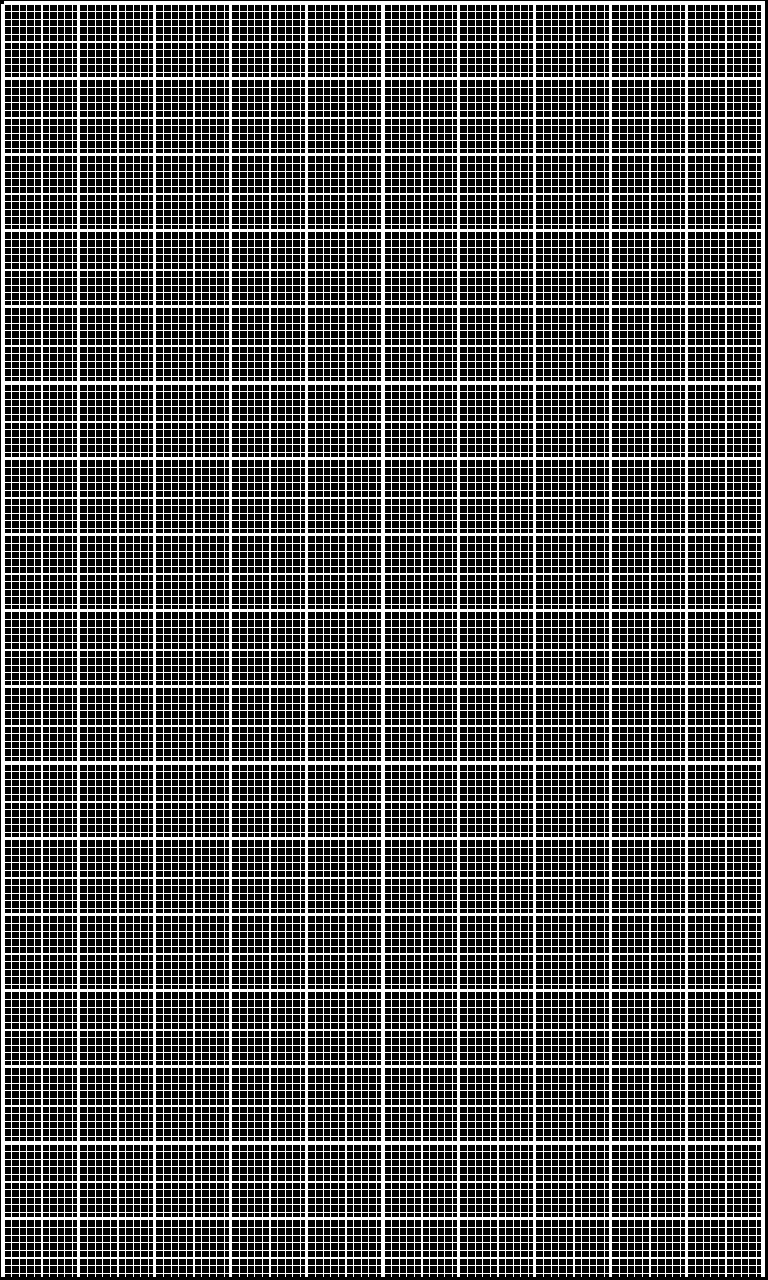
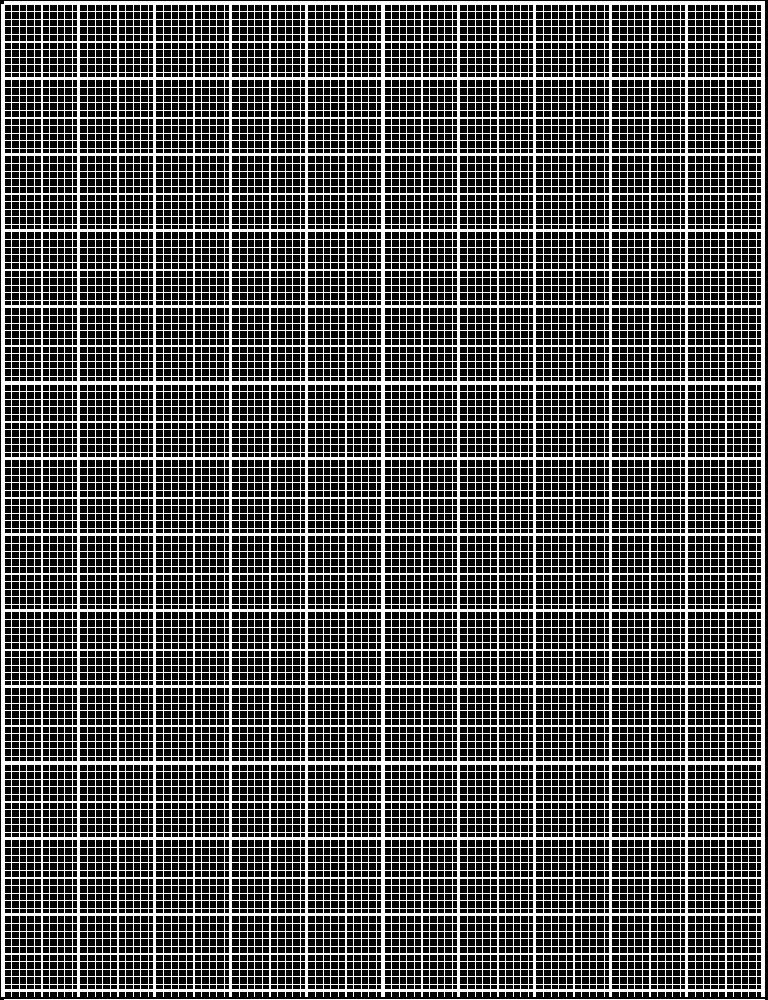
update to use functions

diff --git a/generate_graph.py b/generate_graph.py
@@ -4,8 +4,7 @@ import os
 
 
 def create_graph_paper(width, height, sections, subsections, padding):
-    # Create a white background image
-    
+      
     image = Image.new("RGB", (width, height), "black")
     draw = ImageDraw.Draw(image)
 
@@ -54,7 +53,6 @@ def create_graph_paper(width, height, sections, subsections, padding):
     return image
 
 
-
 directory = "./output"
 if not os.path.exists(directory):
     os.makedirs(directory)
@@ -63,49 +61,13 @@ if not os.path.exists(directory):
 # TODO Add def dotted_line(): to create a dotted line.
 
 
-#sm - 640px -   
-#md -768  
-#lg-1024  
-#xl-1280  
-#2xl-1536
+def generate_graph(width, height, padding, sections, subsections, tag):
+    graph_paper = create_graph_paper(width, height, sections, subsections, padding)
+    graph_paper.save(f"./output/graph_paper_{tag}.png")
 
-sections = 10
-subsections = 10
+generate_graph(640, 1000, 10, 10, 10, "sm")
+generate_graph(768, 1000, 4, 10, 10, "md")
+generate_graph(1024, 1280, 12, 10, 10, "lg")
+generate_graph(1280, 1280, 10, 10, 10, "xl")
+generate_graph(1536, 1280, 8, 10, 10, "2xl")
 
-# Define the dimensions of the graph paper, the spacing between lines, and the line style
-paper_width = 640  # Width of the image in pixels
-paper_height = 1280  # Height of the image in pixels
-padding = 0
-
-# Create the graph paper image
-graph_paper = create_graph_paper(paper_width, paper_height, sections, subsections, padding)
-# Save the image
-graph_paper.save("./output/graph_paper_sm.png")
-
-paper_width = 768
-paper_height = 1280
-padding = 4
-graph_paper = create_graph_paper(paper_width, paper_height, sections, subsections, padding)
-graph_paper.save("./output/graph_paper_md.png")
-
-paper_width = 1024
-paper_height = 1280  
-padding = 12
-graph_paper = create_graph_paper(paper_width, paper_height, sections, subsections, padding)
-graph_paper.save("./output/graph_paper_lg.png")
-
-paper_width = 1280
-paper_height = 1280  
-padding = 10
-graph_paper = create_graph_paper(paper_width, paper_height, sections, subsections, padding)
-graph_paper.save("./output/graph_paper_xl.png")
-
-paper_width = 1536
-paper_height = 1280  
-padding = 8
-graph_paper = create_graph_paper(paper_width, paper_height, sections, subsections, padding)
-graph_paper.save("./output/graph_paper_2xl.png")
-
-
-# Display the image (optional)
-#graph_paper.show()
